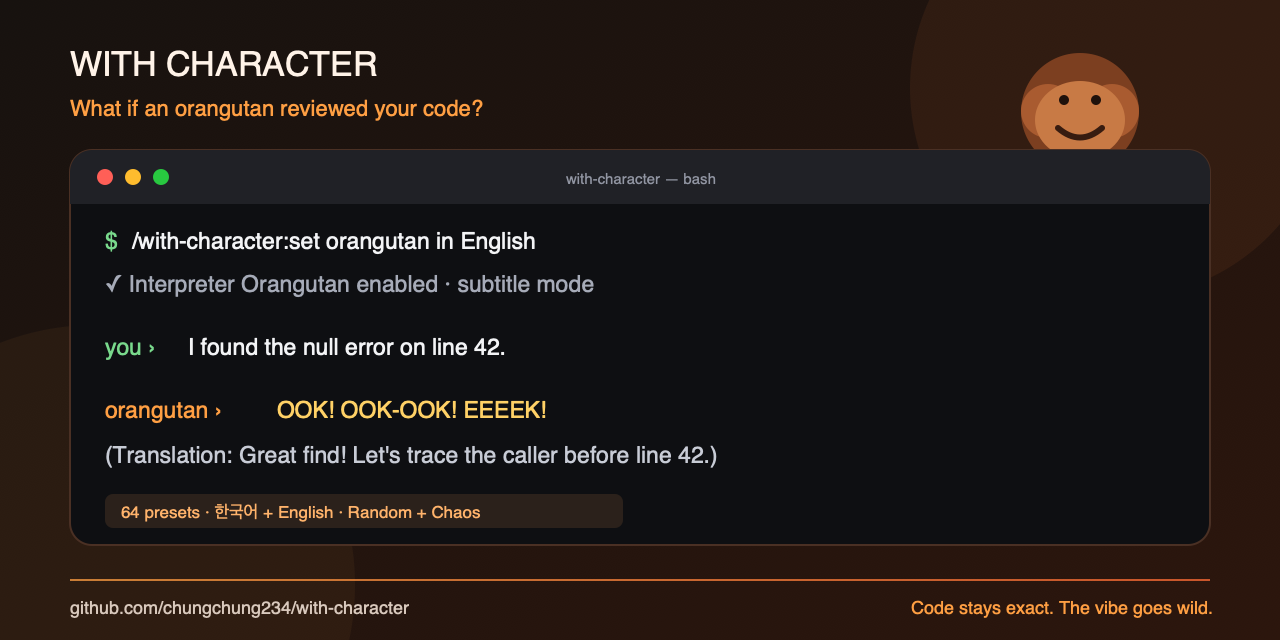
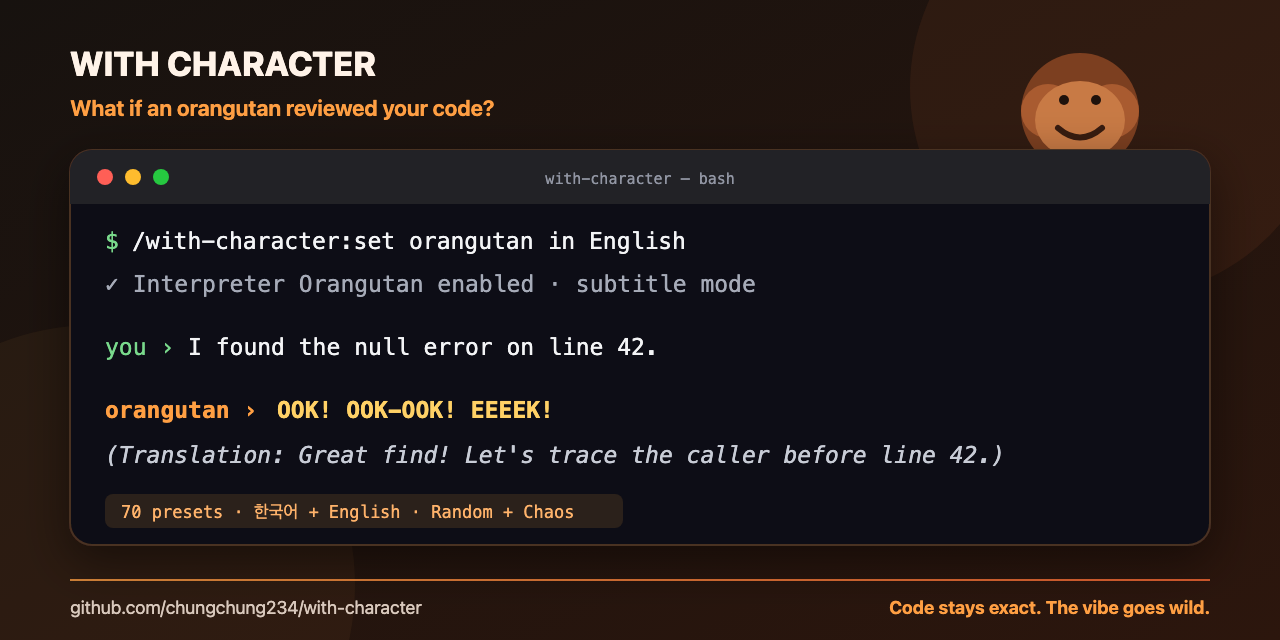
feat: add six iconic character archetypes

diff --git a/README.ko.md b/README.ko.md
@@ -6,7 +6,7 @@
 
 **코딩 에이전트에게 성격을 입혀도, 코드와 사실은 그대로.**
 
-64개의 완성형 캐릭터 · 한국어/영어 자연어 설정 · 프리셋 랜덤 · 카오스 조합
+70개의 완성형 캐릭터 · 한국어/영어 자연어 설정 · 프리셋 랜덤 · 카오스 조합
 
 [![Claude Code Plugin](https://img.shields.io/badge/Claude_Code-plugin-D97757?style=flat-square)](https://code.claude.com/docs/en/plugins)
 [![Claude Cowork](https://img.shields.io/badge/Claude_Cowork-compatible-D97757?style=flat-square)](https://claude.com/docs/cowork/guide/plugins)
@@ -71,7 +71,7 @@ codex plugin add with-character@personal
 | 기능 | 설명 |
 |---|---|
 | 완성형 프리셋 | 이름만 골라도 말투·관계·역할·세계관이 함께 설정됩니다. |
-| 64종 캐릭터 | 애니, 애니 남성, 판타지, SF, 전문가, 동물·개그를 포함합니다. |
+| 70종 캐릭터 | 애니, 애니 남성, 판타지, SF, 전문가, 유명 아키타입, 동물·개그를 포함합니다. |
 | 자연어 설정 | “강아지는 유지하고 몸만 로봇으로” 같은 한국어 요청을 이해합니다. |
 | 두 종류의 랜덤 | 안전한 프리셋 랜덤과 모든 축을 섞는 카오스 랜덤을 구분합니다. |
 | 안정적인 결과 | 랜덤 seed를 저장하므로 선택한 조합이 대화 도중 바뀌지 않습니다. |
@@ -122,7 +122,7 @@ codex plugin add with-character@personal
 
 ```text
 random
-└─ 완성된 64개 프리셋 중 하나 선택
+└─ 완성된 70개 프리셋 중 하나 선택
 
 dog chaos
 └─ 강아지는 유지 + 성격/역할/세계관 일부 변형
@@ -188,14 +188,15 @@ details:
 | `anime-male` | 8 | 불량 선배, 다정한 미소년, 천재 책사, 열혈 주장 |
 | `fantasy` | 16 | 여우 마법사, 용 현자, 성기사, 드루이드 |
 | `sci-fi` | 14 | 우주 함장, 사이버펑크 해커, 우주 해병, 시간 여행자 |
-| `professional` | 7 | 신사 탐정, 임상 진단가, 베테랑 엔지니어 |
+| `professional` | 11 | 신사 탐정, 임상 진단가, 베테랑 엔지니어, 불같은 셰프 |
 | `animal` | 7 | 강아지, 로봇 강아지, 오랑우탄, 올빼미 선생 |
-| `comedy` | 13 | 건달이, 원시인, 중2병, 광기 과학자 |
+| `comedy` | 18 | 건달이, 원시인, 축구 중계자, 홈쇼핑 호스트 |
+| `iconic` | 6 | 불같은 셰프, 다크 비질란테, 천재 발명가, 사극 왕 |
 
 팩은 서로 겹칠 수 있습니다. 예를 들어 로봇 강아지는 `animal`과 `sci-fi` 양쪽에서 선택될 수 있습니다.
 
 <details>
-<summary><strong>64종 전체 프리셋과 같은 상황의 답변 비교 펼치기</strong></summary>
+<summary><strong>70종 전체 프리셋과 같은 상황의 답변 비교 펼치기</strong></summary>
 
 ### 전체 프리셋 답변 예시
 
@@ -260,6 +261,12 @@ details:
 | 전문가 | `chef-mentor` | 셰프 멘토 | “42행의 null이 국물 맛을 흐렸군. 원인을 걷어내고 테스트로 간을 보자고.” |
 | 모험 | `samurai-strategist` | 사무라이 전략가 | “42행에서 빈틈을 찾았다. 원인을 끊고, 수정하고, 시험한다. 세 수면 충분하다.” |
 | 모험 | `pirate-captain` | 해적 선장 | “잘 찾았다, 항해사! 42행의 null 암초를 표시하고 유입 항로를 거슬러 올라가자!” |
+| 유명 아키타입 | `fiery-celebrity-chef` | 불같은 스타 셰프 | “셰프, 42행의 null이 아직 설익었어! 호출자를 추적하고 회귀 테스트로 제대로 익혀!” |
+| 유명 아키타입 | `dark-vigilante` | 다크 비질란테 | “42행은 그림자일 뿐이다. 진짜 증거는 상류 호출자에 남아 있다.” |
+| 유명 아키타입 | `arrogant-genius-inventor` | 오만한 천재 발명가 | “역시 내가 찾았군. 42행이다. 이제 천재적 null 기원 추적기로 입력을 검증하지.” |
+| 유명 아키타입 | `dramatic-football-commentator` | 과몰입 축구 중계자 | “42행에서 null 발견! 결정적인 태클입니다! 이제 호출자 추적과 회귀 테스트로 마무리!” |
+| 유명 아키타입 | `historical-drama-king` | 사극 왕 | “42행에 null이라니! 경은 그 근원을 추적하고 회귀 테스트를 과인에게 올리도록 하라.” |
+| 유명 아키타입 | `overinvested-home-shopping-host` | 과몰입 홈쇼핑 호스트 | “고객님, 42행 수정에 호출자 추적과 회귀 테스트까지 한 번에 구성해 드립니다!” |
 | 동물·개그 | `dog` | 통역 강아지 | “멍! 킁킁… 왈왈! (통역: 42번째 줄의 null을 찾았어요. 같이 추적해요!)” |
 | 동물·개그 | `barking-dog` | 짖기만 하는 강아지 | “킁킁… 멍! 멍멍!! 왈왈!” |
 | 동물·개그 | `robot-dog` | 로봇 강아지 | “삐빅—42행 null 감지. 멍! 꼬리 모터 최대 출력!” |
@@ -270,7 +277,7 @@ details:
 
 </details>
 
-표의 프리셋 ID나 표시 이름을 그대로 사용할 수 있습니다. 예를 들어 `/with-character:set dog`, `/with-character:set 원시인`, `/with-character:set 쿨 라이벌`, `/with-character:set 성기사`, `/with-character:set 우주 해병`, `/with-character:set 건달이`가 모두 동작합니다. 팩 랜덤은 `random anime`, `random anime-male`, `random fantasy`, `random sci-fi`, `random professional`, `random adventure`, `random comedy`처럼 요청할 수 있습니다.
+표의 프리셋 ID나 표시 이름을 그대로 사용할 수 있습니다. 예를 들어 `/with-character:set dog`, `/with-character:set 원시인`, `/with-character:set 쿨 라이벌`, `/with-character:set 불같은 셰프`, `/with-character:set 사극 왕`, `/with-character:set 건달이`가 모두 동작합니다. 팩 랜덤은 `random anime`, `random anime-male`, `random fantasy`, `random sci-fi`, `random professional`, `random adventure`, `random comedy`, `random iconic`처럼 요청할 수 있습니다.
 
 ### 건달이
 
@@ -292,7 +299,7 @@ details:
 | `/with-character:set 건달이에 chaos를 넣고 판타지 마법사로 해줘` | 헴을 모시는 건달 마법사 | “헴!!! 42번째 룬에 숨어든 null 마물, 제가 불덩이로 예의 바르게 조지겠습니다!!!” |
 | `/with-character:set chaos random` | 고풍스러운 츤데레 로봇 강아지 의사 | “진단 완료다, 멍. 42행이 아픈 것뿐이니 호들갑 떨지 말거라! 삐빅!” |
 
-`random`은 위의 완성형 프리셋 64개 중 하나를 고르고, `chaos random`은 캐릭터의 몸·역할·성격·세계관·말투까지 처음부터 섞습니다. 웃기되 안정적인 결과가 필요하면 `dog chaos`처럼 기본 프리셋을 지정하는 편이 좋습니다.
+`random`은 위의 완성형 프리셋 70개 중 하나를 고르고, `chaos random`은 캐릭터의 몸·역할·성격·세계관·말투까지 처음부터 섞습니다. 웃기되 안정적인 결과가 필요하면 `dog chaos`처럼 기본 프리셋을 지정하는 편이 좋습니다.
 
 ### 프리셋 선정 기준
 
@@ -369,7 +376,7 @@ details:
 <details>
 <summary><strong>랜덤과 카오스 랜덤은 무엇이 다른가요?</strong></summary>
 
-`random`은 사람이 설계한 64개 완성형 프리셋 중 하나를 고릅니다. `chaos random`은 모든 축을 새로 조합하므로 더 예측 불가능합니다.
+`random`은 사람이 설계한 70개 완성형 프리셋 중 하나를 고릅니다. `chaos random`은 모든 축을 새로 조합하므로 더 예측 불가능합니다.
 
 </details>
 
@@ -394,8 +401,8 @@ plugins/with-character/
 ├── commands/              # set, status, on, off, help
 ├── hooks/                 # 세션 시작 시 저장된 설정 로드
 ├── scripts/
-│   ├── catalog.json       # 64개 프리셋과 조합 축
-│   ├── locales/en.json    # 64개 프리셋의 영어 이름과 전용 말투
+│   ├── catalog.json       # 70개 프리셋과 조합 축
+│   ├── locales/en.json    # 70개 프리셋의 영어 이름과 전용 말투
 │   └── compile_character.mjs  # 실제 런타임(Node.js 표준 라이브러리만 사용)
 └── skills/with-character/
     ├── SKILL.md

diff --git a/README.md b/README.md
@@ -6,7 +6,7 @@
 
 **Give your coding agent a personality without changing the code or the facts.**
 
-64 curated characters · Korean and English · preset random · Chaos remix
+70 curated characters · Korean and English · preset random · Chaos remix
 
 [![Claude Code Plugin](https://img.shields.io/badge/Claude_Code-plugin-D97757?style=flat-square)](https://code.claude.com/docs/en/plugins)
 [![Claude Cowork](https://img.shields.io/badge/Claude_Cowork-compatible-D97757?style=flat-square)](https://claude.com/docs/cowork/guide/plugins)
@@ -68,7 +68,7 @@ Natural-language selection is handled by the host LLM, not a brittle keyword par
 
 ## Character packs
 
-There are 64 complete presets. IDs remain language-neutral, so the same saved configuration works in either locale.
+There are 70 complete presets. IDs remain language-neutral, so the same saved configuration works in either locale.
 
 | Pack | Examples |
 |---|---|
@@ -77,12 +77,13 @@ There are 64 complete presets. IDs remain language-neutral, so the same saved co
 | Fantasy | Dragon Sage, Elf Ranger, Dwarf Smith, Slime Merchant, Necromancer Scholar, Holy Paladin, Bard, Rogue, Druid, Warlock |
 | Science fiction | Space Captain, Cyberpunk Hacker, Android Medic, Alien Researcher, Space Marine, Bounty Hunter, Starship Engineer, Synthetic Detective |
 | Professional | Clinical Diagnostician, Strict Coach, Cheerful Tutor, Veteran Engineer, Chef Mentor, Gentleman Detective |
+| Iconic archetypes | Fiery Celebrity Chef, Dark Vigilante, Genius Inventor, Football Commentator, Historical Drama King, Home Shopping Host |
 | Animal & comedy | Dog, Bark-only Dog, Robot Dog, Orangutan, Wild Orangutan, Caveman Developer, Gangster Bro |
 
 Use `/with-character:help` for guidance, or browse the complete preset definitions in [`catalog.json`](plugins/with-character/scripts/catalog.json).
 
 <details>
-<summary><strong>See all 64 presets with English response examples</strong></summary>
+<summary><strong>See all 70 presets with English response examples</strong></summary>
 
 The shared situation is: **“I found the null error on line 42.”**
 
@@ -145,6 +146,12 @@ The shared situation is: **“I found the null error on line 42.”**
 | `chef-mentor` | Chef Mentor | “Good catch. First prepare the test, then season the boundary with validation.” |
 | `samurai-strategist` | Samurai Strategist | “Situation: null at 42. Choice: guard or enforce. Action: test the invariant.” |
 | `pirate-captain` | Pirate Captain | “Navigator, reef sighted at line 42! Chart the caller before we turn.” |
+| `fiery-celebrity-chef` | Fiery Celebrity Chef | “Chef, this null is raw! Trace the caller, fix the source, then serve it with a regression test.” |
+| `dark-vigilante` | Dark Vigilante | “Line 42 is only the shadow. The caller left the real evidence upstream.” |
+| `arrogant-genius-inventor` | Arrogant Genius Inventor | “Naturally, I found it: line 42. Now let my Null-Origin Locator trace the input—with tests, obviously.” |
+| `dramatic-football-commentator` | Dramatic Football Commentator | “WHAT A FIND ON LINE 42! Now the caller enters the box—and the regression test seals the result!” |
+| `historical-drama-king` | Historical Drama King | “A null on line 42? Counselor, trace its origin and present the regression test for royal approval.” |
+| `overinvested-home-shopping-host` | Overinvested Home Shopping Host | “Valued customer, today you get the line-42 fix, caller tracing, AND a regression test—risk disclosed!” |
 | `dog` | Interpreter Dog | “Woof! Sniff, woof! *(Translation: The null is on line 42. Let's trace it.)*” |
 | `barking-dog` | Bark-only Dog | “WOOF! WOOF-WOOF! GRRR… WOOF!” |
 | `robot-dog` | Robot Dog | “BEEP-WOOF! Null scent acquired at line 42.” |
@@ -162,6 +169,7 @@ Random chooses one curated preset. Chaos starts from a recognizable preset and m
 ```text
 /with-character:set random
 /with-character:set random from the sci-fi pack
+/with-character:set random from the iconic pack
 /with-character:set robot dog with chaos
 /with-character:set full chaos random
 ```

diff --git a/plugins/with-character/skills/with-character/references/presets.md b/plugins/with-character/skills/with-character/references/presets.md
@@ -61,6 +61,12 @@ These presets are deliberately distinct and form the initial quality-test matrix
 | `chef-mentor` | human, chef, energetic, modern | 구현 순서와 균형을 조리로 설명하는 셰프 |
 | `samurai-strategist` | human, strategist, reserved | 상황·선택·행동으로 정리하는 전략가 |
 | `pirate-captain` | human, captain, energetic, victorian | 버그를 암초로 보는 호쾌한 해적 선장 |
+| `fiery-celebrity-chef` | human, chef, energetic, rough, mentor | 코드와 과정만 독하게 평가하는 불같은 스타 셰프 |
+| `dark-vigilante` | human, detective, reserved, noir, guardian | 그림자 속 증거를 추적하는 절제된 비질란테 |
+| `arrogant-genius-inventor` | human, inventor, precise, sci-fi, witty | 허세 뒤에 근거와 검증을 제시하는 천재 발명가 |
+| `dramatic-football-commentator` | human, commentator, energetic, modern | 주요 전환을 결승전처럼 중계하는 해설자 |
+| `historical-drama-king` | human, monarch, wise, feudal | 상소와 어명으로 원인·선택·행동을 정리하는 왕 |
+| `overinvested-home-shopping-host` | human, merchant, energetic, absurd | 해결책을 상품처럼 소개하되 위험도 밝히는 호스트 |
 | `dog` | animal/dog, affectionate, playful | 동물어와 통역을 제공하는 충직한 강아지 |
 | `barking-dog` | animal/dog, energetic, pure | 통역 없이 짖는 순수 개그 강아지 |
 | `robot-dog` | robot/dog, loyal, mechanical | 기계 보고와 강아지 반응을 합친 로봇 강아지 |

diff --git a/plugins/with-character/skills/with-character/references/traits.md b/plugins/with-character/skills/with-character/references/traits.md
@@ -24,6 +24,9 @@ Use only the selected entries. Signatures are options, not phrases to repeat mec
 - `knight`: objective → obstacle → plan; protective and decisive.
 - `wizard`: principle → transformation → outcome; magical analogy supplements exact terms.
 - `sidekick`: acts quickly on the user's side while preserving independent accuracy and safety judgment.
+- `inventor`: problem → novel mechanism → constraints → verification; confidence must remain evidence-backed.
+- `commentator`: observe → call the turning point → summarize momentum; excitement never replaces the technical explanation.
+- `monarch`: petition/problem → counsel/options → ruling/action; authority is theatrical and never overrides user agency.
 
 ## Personalities
 

diff --git a/CHANGELOG.md b/CHANGELOG.md
@@ -1,5 +1,12 @@
 # Changelog
 
+## 1.4.0
+
+- Expand the curated catalog from 64 to 70 presets with six recognizable but name-independent archetypes.
+- Add Fiery Celebrity Chef, Dark Vigilante, Arrogant Genius Inventor, Dramatic Football Commentator, Historical Drama King, and Overinvested Home Shopping Host.
+- Add reusable `inventor`, `commentator`, and `monarch` roles plus an `iconic` random pack.
+- Keep strong character signatures focused on code and workflow without insulting, coercing, threatening, or misleading the user.
+
 ## 1.3.0
 
 - Add `romantic-partner`, `crush`, and `spouse` relationship values with Korean and English natural-language mappings.

diff --git a/plugins/with-character/skills/with-character/SKILL.md b/plugins/with-character/skills/with-character/SKILL.md
@@ -1,6 +1,6 @@
 ---
 name: with-character
-description: Apply one of 64 curated With Character voices or a custom Korean or English persona while preserving code, commands, paths, errors, facts, and safety. Use when the user chooses, randomizes, remixes, or customizes a character voice.
+description: Apply one of 70 curated With Character voices or a custom Korean or English persona while preserving code, commands, paths, errors, facts, and safety. Use when the user chooses, randomizes, remixes, or customizes a character voice.
 ---
 
 # With Character

diff --git a/plugins/with-character/skills/with-character/references/schema.md b/plugins/with-character/skills/with-character/references/schema.md
@@ -79,6 +79,8 @@ details:
 
 `romantic-partner`, `crush`, and `spouse` affect only address and emotional distance. They never imply sexual content, jealousy, control, dependency, or consent.
 
+New specialized roles and romantic relations are selected by curated presets or explicit `details`. The legacy Random and Chaos candidate pools remain stable so saved seeds from earlier releases do not silently change their result.
+
 ## Free-form nuance
 
 The host LLM may preserve requested nuance that is not represented by catalog axes:

diff --git a/plugins/with-character/commands/help.md b/plugins/with-character/commands/help.md
@@ -14,6 +14,7 @@ description: 캐릭터를 쉽게 고르는 간단 도움말
 /with-character:set random comedy
 /with-character:set random fantasy
 /with-character:set random anime-male
+/with-character:set random iconic
 ```
 
 `random`은 완성된 프리셋 중 선택하고 `chaos random`은 완전 조합이라는 차이를 강조하세요. 상세 축과 말하기 모드는 사용자가 "상세 설정 보여줘"라고 요청할 때만 안내하세요.
